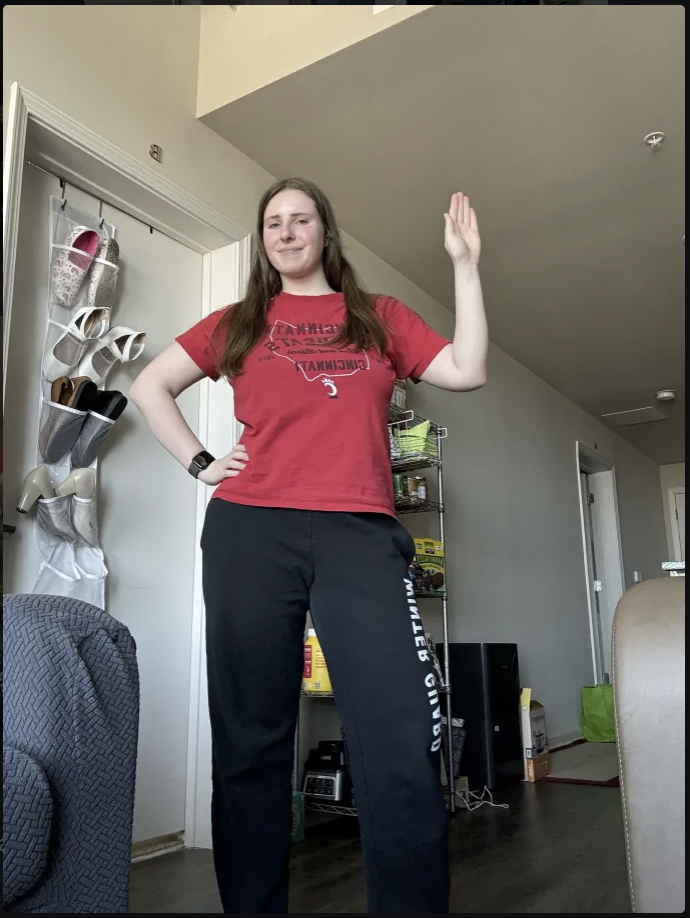
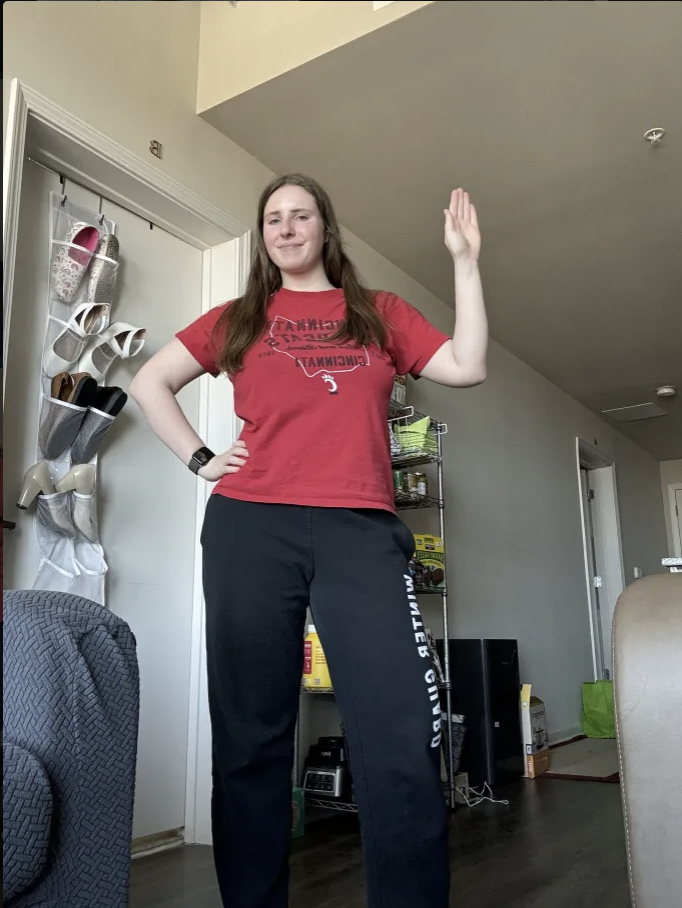
Fixed everything posing

diff --git a/web-app/karaoke/src/components/performance/AudioVideo.jsx b/web-app/karaoke/src/components/performance/AudioVideo.jsx
@@ -22,6 +22,8 @@ import pose14 from "../../assets/images/pose/14.png";
 import pose15 from "../../assets/images/pose/15.png"; 
 import pose16 from "../../assets/images/pose/16.png"; 
 import pose17 from "../../assets/images/pose/17.png"; 
+import pose18 from "../../assets/images/pose/18.png";
+import pose19 from "../../assets/images/pose/19.png";
 
 
 const AudioVideo = () => {
@@ -69,7 +71,9 @@ const AudioVideo = () => {
       14: pose14, 
       15: pose15,
       16: pose16,
-      17: pose17
+      17: pose17,
+      18: pose18,
+      19: pose19
     };
     useEffect(() => {
         // Function to update to a random word

diff --git a/CV_Component/PoseModule.py b/CV_Component/PoseModule.py
@@ -24,7 +24,7 @@ class PoseDetector:
 
     def getFrame(self):
         start_time = time.time()
-        while time.time() <= start_time+61:
+        while time.time() <= start_time+71:
             success, frame = self.cap.read()
             if success:
                 frame = self.findPose(frame)
@@ -118,64 +118,64 @@ class PoseDetector:
         return self.score/20*100
 
     def singleLadies(self, start_time):
-        if start_time <= time.time() < start_time+4 and self.rightHOH1 != 1:
+        if start_time+10 <= time.time() < start_time+14 and self.rightHOH1 != 1:
             self.rightHOH1 = self.rightHandOnHip()
             self.score += self.rightHOH1
-        elif start_time+4 <= time.time() <= start_time+6 and self.leftHOH1 != 1:
+        elif start_time+14 <= time.time() <= start_time+16 and self.leftHOH1 != 1:
             self.leftHOH1 = self.leftHandOnHip()
             self.score += self.leftHOH1
-        elif start_time+7 <= time.time() <= start_time+8 and self.rightHOH2 != 1:
+        elif start_time+17 <= time.time() <= start_time+18 and self.rightHOH2 != 1:
             self.rightHOH2 = self.rightHandOnHip()
             self.score += self.rightHOH2
-        elif start_time+9 <= time.time() < start_time+10 and self.leftHOH2 != 1:
+        elif start_time+19 <= time.time() < start_time+20 and self.leftHOH2 != 1:
             self.leftHOH2 = self.leftHandOnHip()
             self.score += self.leftHOH2
-        elif start_time+10 <= time.time() < start_time+12 and self.yayP != 1:
+        elif start_time+20 <= time.time() < start_time+22 and self.yayP != 1:
             self.yayP = self.yay()
             self.score += self.yayP
-        elif start_time+12 <= time.time() <= start_time+16 and self.HOH != 1:
+        elif start_time+22 <= time.time() <= start_time+26 and self.HOH != 1:
             self.HOH = self.handsOnHip()
             self.score += self.HOH
-        elif start_time+17 <= time.time() <= start_time+21 and self.rightDivaP != 1:
+        elif start_time+27 <= time.time() <= start_time+31 and self.rightDivaP != 1:
             self.rightDivaP = self.rightDiva()
             self.score += self.rightDivaP
-        elif start_time+22 <= time.time() <= start_time+26 and self.leftPush != 1:
+        elif start_time+32 <= time.time() <= start_time+36 and self.leftPush != 1:
             self.leftPush = self.leftPushAway()
             self.score += self.leftPush
-        elif start_time+27 <= time.time() <= start_time+31 and self.rightBack != 1:
+        elif start_time+37 <= time.time() <= start_time+41 and self.rightBack != 1:
             self.rightBack = self.rightBreakBack()
             self.score += self.rightBack
-        elif start_time+32 <= time.time() <= start_time+33 and self.leftRing1 != 1:
+        elif start_time+42 <= time.time() <= start_time+43 and self.leftRing1 != 1:
             self.leftRing1 = self.leftRingOnIt()
             self.score += self.leftRing1
-        elif start_time+34 <= time.time() <= start_time+36 and self.rightRing1 != 1:
+        elif start_time+44 <= time.time() <= start_time+46 and self.rightRing1 != 1:
             self.rightRing1 = self.rightRingOnIt()
             self.score += self.rightRing1
-        elif start_time+37 <= time.time() <= start_time+38 and self.leftRing2 != 1:
+        elif start_time+47 <= time.time() <= start_time+48 and self.leftRing2 != 1:
             self.leftRing2 = self.leftRingOnIt()
             self.score += self.leftRing2
-        elif start_time+39 <= time.time() <= start_time+41 and self.rightRing2 != 1:
+        elif start_time+49 <= time.time() <= start_time+51 and self.rightRing2 != 1:
             self.rightRing2 = self.rightRingOnIt()
             self.score += self.rightRing2
-        elif start_time+42 <= time.time() <= start_time+44 and self.leftOh1 != 1:
+        elif start_time+52 <= time.time() <= start_time+54 and self.leftOh1 != 1:
             self.leftOh1 = self.leftOhOhOh()
             self.score += self.leftOh1
-        elif start_time+45 <= time.time() <= start_time+47 and self.rightOh1 != 1:
+        elif start_time+55 <= time.time() <= start_time+57 and self.rightOh1 != 1:
             self.rightOh1 = self.rightOhOhOh()
             self.score += self.rightOh1
-        elif start_time+48 <= time.time() <= start_time+51 and self.leftOh2 != 1:
+        elif start_time+58 <= time.time() <= start_time+61 and self.leftOh2 != 1:
             self.leftOh2 = self.leftOhOhOh()
             self.score += self.leftOh2
-        elif start_time+52 <= time.time() <= start_time+53 and self.rightRing3 != 1:
+        elif start_time+62 <= time.time() <= start_time+63 and self.rightRing3 != 1:
             self.rightRing3 = self.rightRingOnIt()
             self.score += self.rightRing3
-        elif start_time+54 <= time.time() <= start_time+55 and self.leftRing3 != 1:
+        elif start_time+64 <= time.time() <= start_time+65 and self.leftRing3 != 1:
             self.leftRing3 = self.leftRingOnIt()
             self.score += self.leftRing3
-        elif start_time+56 <= time.time() <= start_time+58 and self.rightRing4 != 1:
+        elif start_time+66 <= time.time() <= start_time+68 and self.rightRing4 != 1:
             self.rightRing4 = self.rightRingOnIt()
             self.score += self.rightRing4
-        elif start_time+59 <= time.time() <= start_time+60 and self.leftRing4 != 1:
+        elif start_time+69 <= time.time() <= start_time+70 and self.leftRing4 != 1:
             self.leftRing4 = self.leftRingOnIt()
             self.score += self.leftRing4
 
